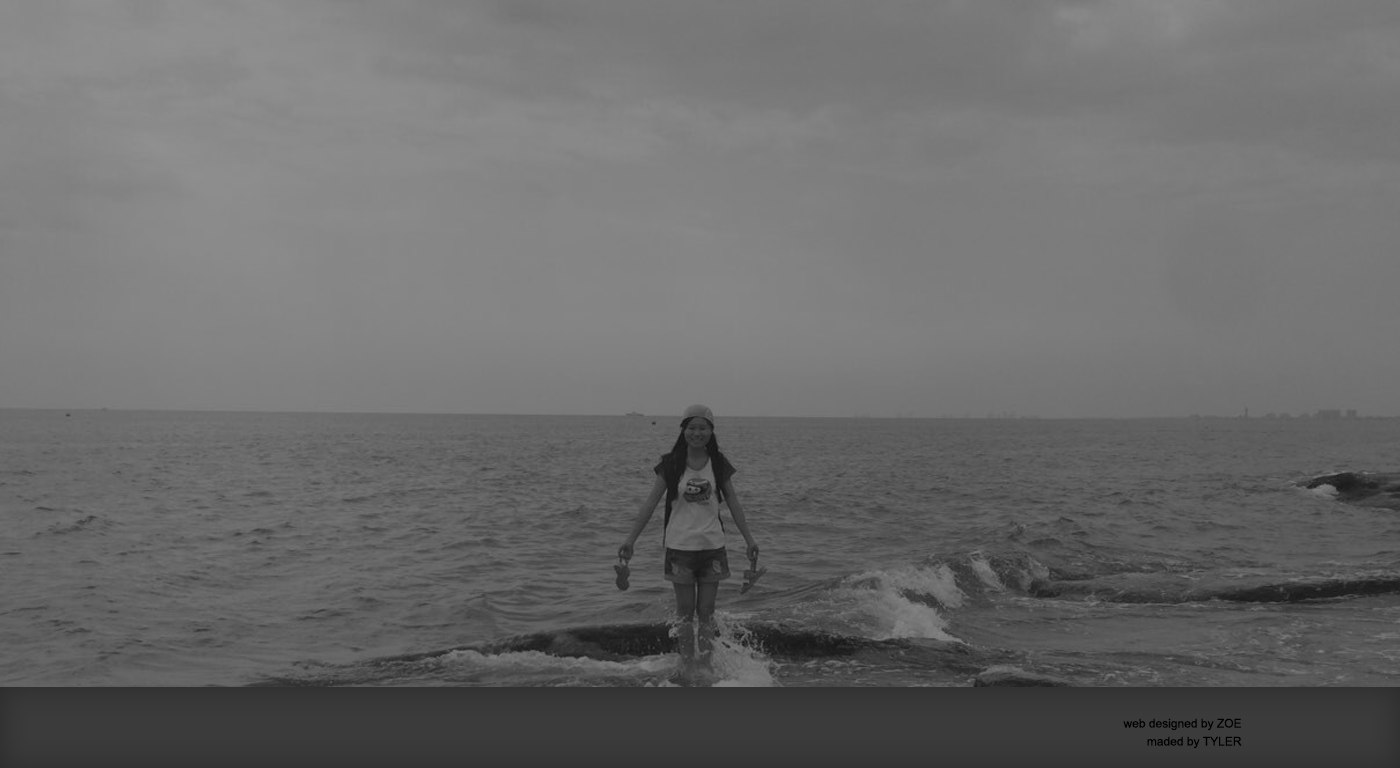
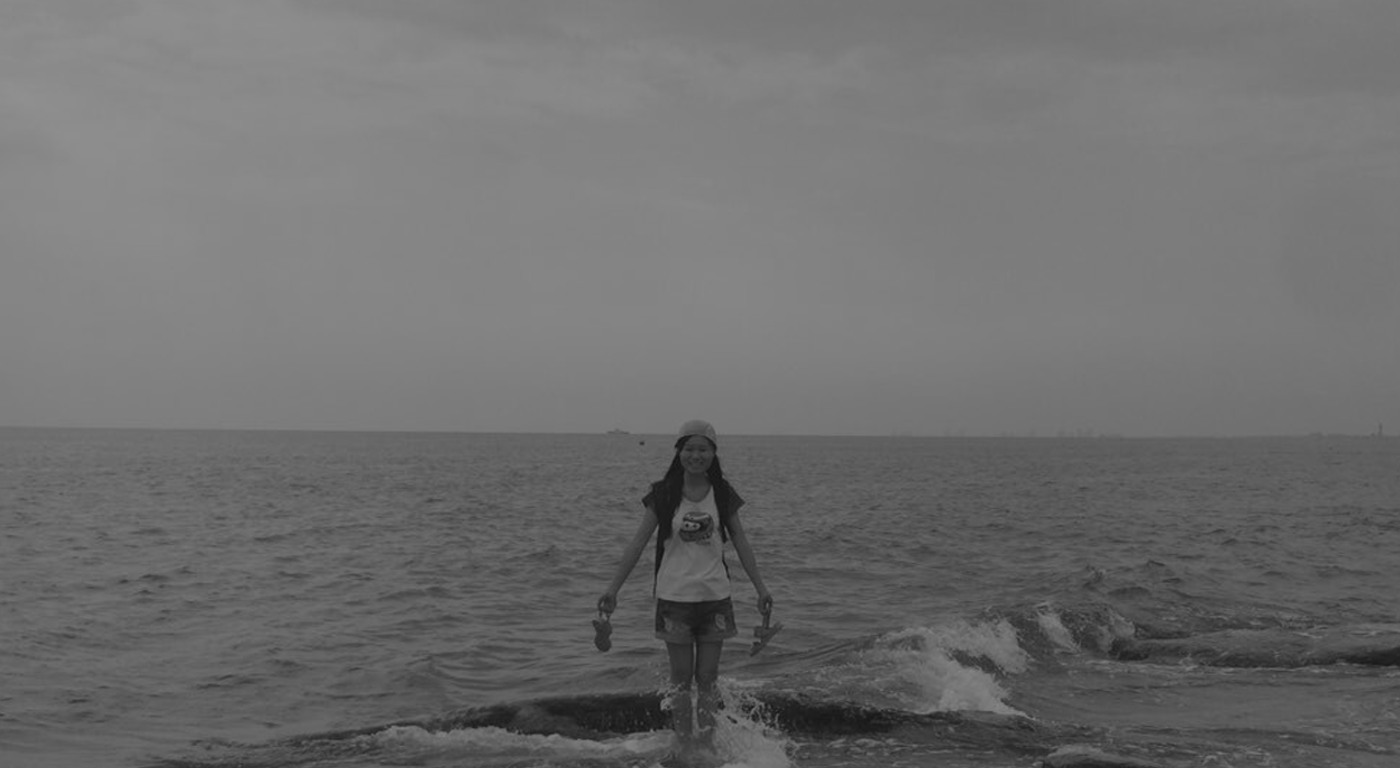
change

Changed region(s): [[0.0, 0.5312, 1.0, 1.0], [0.9214, 0.5938, 1.0, 0.6875], [0.1229, 0.8125, 0.1536, 0.8438]]

diff --git a/zoe/index.css b/zoe/index.css
@@ -17,7 +17,7 @@ body {
   position: fixed;
   top: 0px;
   width: 100%;
-  height: 45px;
+  height: 60px;
   background: url("header.png") center no-repeat;
   z-index: 999;
 }
@@ -27,10 +27,10 @@ body {
 }
 .header .links-con .links {
   float: left;
-  height: 45px;
+  height: 60px;
   margin-right: 70px;
-  line-height: 45px;
-  font-size: 12px;
+  line-height: 60px;
+  font-size: 16px;
   text-decoration: none;
   color: #676767;
   cursor: pointer;
@@ -322,17 +322,75 @@ body {
   background: url("contacticons.png");
   background-position: -152px 0;
 }
+.footer {
+  position: fixed;
+  top: 100%;
+  left: 50%;
+  margin-left: -700px;
+  width: 1400px;
+  height: 50px;
+  background: url("footer.png") center no-repeat;
+  transition: all 1s ease;
+  -webkit-transition: all 1s ease;
+  -moz-transition: all 1s ease;
+  -o-transition: all 1s ease;
+}
+.footer.show {
+  margin-top: -50px;
+}
 @keyframes arrow {
   0% {
-    bottom: 20px;
+    bottom: 10px;
     opacity: 1;
   }
   50% {
-    bottom: 10px;
+    bottom: 0;
     opacity: 0.3;
   }
   100% {
-    bottom: 20px;
+    bottom: 10px;
+    opacity: 1;
+  }
+}
+@-webkit-keyframes arrow {
+  0% {
+    bottom: 10px;
+    opacity: 1;
+  }
+  50% {
+    bottom: 0;
+    opacity: 0.3;
+  }
+  100% {
+    bottom: 10px;
+    opacity: 1;
+  }
+}
+@-moz-keyframes arrow {
+  0% {
+    bottom: 10px;
+    opacity: 1;
+  }
+  50% {
+    bottom: 0;
+    opacity: 0.3;
+  }
+  100% {
+    bottom: 10px;
+    opacity: 1;
+  }
+}
+@-o-keyframes arrow {
+  0% {
+    bottom: 10px;
+    opacity: 1;
+  }
+  50% {
+    bottom: 0;
+    opacity: 0.3;
+  }
+  100% {
+    bottom: 10px;
     opacity: 1;
   }
 }
@@ -340,14 +398,23 @@ body {
   position: fixed;
   bottom: 20px;
   left: 50%;
-  margin-left: -15px;
-  width: 30px;
-  height: 15px;
+  margin-left: -25px;
+  width: 40px;
+  height: 25px;
   background: url("arrow.png") center no-repeat;
   background-size: 100% 100%;
   animation-name: arrow;
   animation-duration: 2s;
   animation-iteration-count: infinite;
+  -webkit-animation-name: arrow;
+  -webkit-animation-duration: 2s;
+  -webkit-animation-iteration-count: infinite;
+  -moz-animation-name: arrow;
+  -moz-animation-duration: 2s;
+  -moz-animation-iteration-count: infinite;
+  -o-animation-name: arrow;
+  -o-animation-duration: 2s;
+  -o-animation-iteration-count: infinite;
 }
 .right-nav {
   position: fixed;
@@ -355,19 +422,23 @@ body {
   top: 50%;
 }
 .right-nav .nav {
-  width: 5px;
-  height: 5px;
-  margin: 15px;
+  width: 4px;
+  height: 4px;
+  margin: 10px;
   cursor: pointer;
+  background: #aaaaaa;
   border-radius: 50%;
   -webkit-border-radius: 50%;
   -o-border-radius: 50%;
   -moz-border-radius: 50%;
-  box-shadow: 0 0 0 5px #cccccc;
-  -webkit-box-shadow: 0 0 0 5px #cccccc;
-  -o-box-shadow: 0 0 0 5px #cccccc;
-  -moz-box-shadow: 0 0 0 5px #cccccc;
 }
 .right-nav .nav.selected {
-  background: #69dc36;
+  width: 8px;
+  height: 8px;
+  margin: 10px 8px;
+  background: transparent;
+  box-shadow: 0 0 0 2px #69dc36;
+  -webkit-box-shadow: 0 0 0 2px #69dc36;
+  -o-box-shadow: 0 0 0 2px #69dc36;
+  -moz-box-shadow: 0 0 0 2px #69dc36;
 }

diff --git a/zoe/index.less b/zoe/index.less
@@ -20,7 +20,7 @@ html, body {
   position: fixed;
   top: 0px;
   width: 100%;
-  height: 45px;
+  height: 60px;
   background: url("header.png") center no-repeat;
   z-index: 999;
   .links-con {
@@ -28,10 +28,10 @@ html, body {
     overflow: hidden;
     .links {
       float: left;
-      height: 45px;
+      height: 60px;
       margin-right: 70px;
-      line-height: 45px;
-      font-size: 12px;
+      line-height: 60px;
+      font-size: 16px;
       text-decoration: none;
       color: #676767;
       cursor: pointer;
@@ -285,26 +285,63 @@ html, body {
   }
 }
 .footer {
-
+  position: fixed;
+  top: 100%;
+  left: 50%;
+  margin-left: -700px;
+  width: 1400px;
+  height: 50px;
+  background: url("footer.png") center no-repeat;
+  transition: all 1s ease;
+  -webkit-transition: all 1s ease;
+  -moz-transition: all 1s ease;
+  -o-transition: all 1s ease;
+  &.show {
+    margin-top: -50px;
+  }
 }
 
 @keyframes arrow {
-  0%   {bottom: 20px; opacity: 1}
-  50%  {bottom: 10px; opacity: 0.3}
-  100% {bottom: 20px; opacity: 1}
+  0%   {bottom: 10px; opacity: 1}
+  50%  {bottom: 0; opacity: 0.3}
+  100% {bottom: 10px; opacity: 1}
+}
+@-webkit-keyframes arrow {
+  0%   {bottom: 10px; opacity: 1}
+  50%  {bottom: 0; opacity: 0.3}
+  100% {bottom: 10px; opacity: 1}
+}
+@-moz-keyframes arrow {
+  0%   {bottom: 10px; opacity: 1}
+  50%  {bottom: 0; opacity: 0.3}
+  100% {bottom: 10px; opacity: 1}
+}
+@-o-keyframes arrow {
+  0%   {bottom: 10px; opacity: 1}
+  50%  {bottom: 0; opacity: 0.3}
+  100% {bottom: 10px; opacity: 1}
 }
 .down-arrow {
   position: fixed;
   bottom: 20px;
   left: 50%;
-  margin-left: -15px;
-  width: 30px;
-  height: 15px;
+  margin-left: -25px;
+  width: 40px;
+  height: 25px;
   background: url("arrow.png") center no-repeat;
   background-size: 100% 100%;
   animation-name: arrow;
   animation-duration: 2s;
   animation-iteration-count: infinite;
+  -webkit-animation-name: arrow;
+  -webkit-animation-duration: 2s;
+  -webkit-animation-iteration-count: infinite;
+  -moz-animation-name: arrow;
+  -moz-animation-duration: 2s;
+  -moz-animation-iteration-count: infinite;
+  -o-animation-name: arrow;
+  -o-animation-duration: 2s;
+  -o-animation-iteration-count: infinite;
 }
 
 .right-nav {
@@ -312,20 +349,24 @@ html, body {
   right: 0;
   top: 50%;
   .nav {
-    width: 5px;
-    height: 5px;
-    margin: 15px;
+    width: 4px;
+    height: 4px;
+    margin: 10px;
     cursor: pointer;
+    background: #aaaaaa;
     border-radius: 50%;
     -webkit-border-radius: 50%;
     -o-border-radius: 50%;
     -moz-border-radius: 50%;
-    box-shadow: 0 0 0 5px #cccccc;
-    -webkit-box-shadow: 0 0 0 5px #cccccc;
-    -o-box-shadow: 0 0 0 5px #cccccc;
-    -moz-box-shadow: 0 0 0 5px #cccccc;
     &.selected {
-      background: #69dc36;
+      width: 8px;
+      height: 8px;
+      margin: 10px 8px;
+      background: transparent;
+      box-shadow: 0 0 0 2px #69dc36;
+      -webkit-box-shadow: 0 0 0 2px #69dc36;
+      -o-box-shadow: 0 0 0 2px #69dc36;
+      -moz-box-shadow: 0 0 0 2px #69dc36;
     }
   }
 }

diff --git a/zoe/index.js b/zoe/index.js
@@ -36,8 +36,10 @@
         }
         if (self.position === self.slideCount - 1) {
           document.querySelector('.down-arrow').style.display = 'none';
+          document.querySelector('.footer').classList.add('show');
         } else {
           document.querySelector('.down-arrow').style.display = 'block';
+          document.querySelector('.footer').classList.remove('show');
         }
         // self.beforeSlideAnimationDonw();
         // self['slideAnimation' + self.position]();
